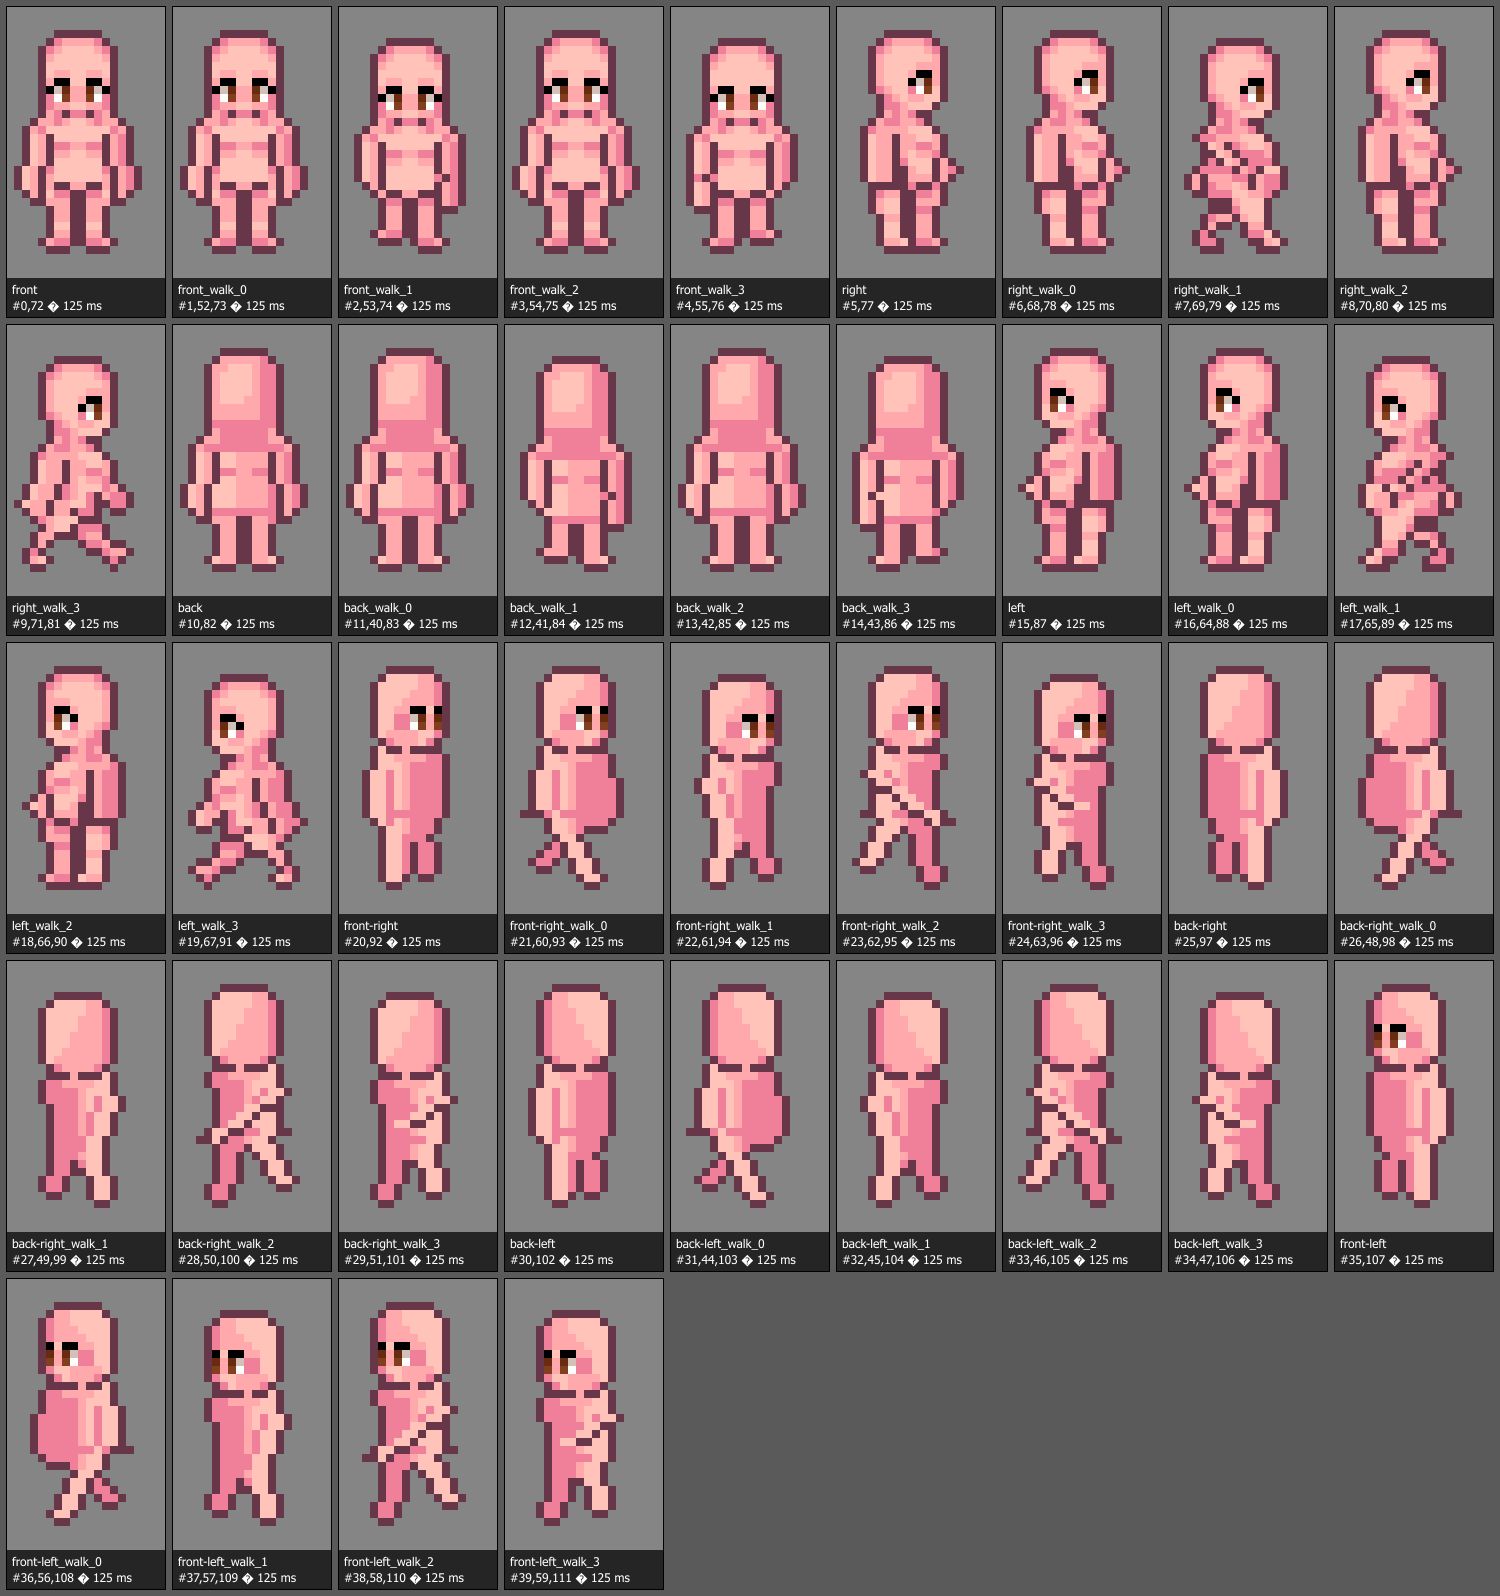
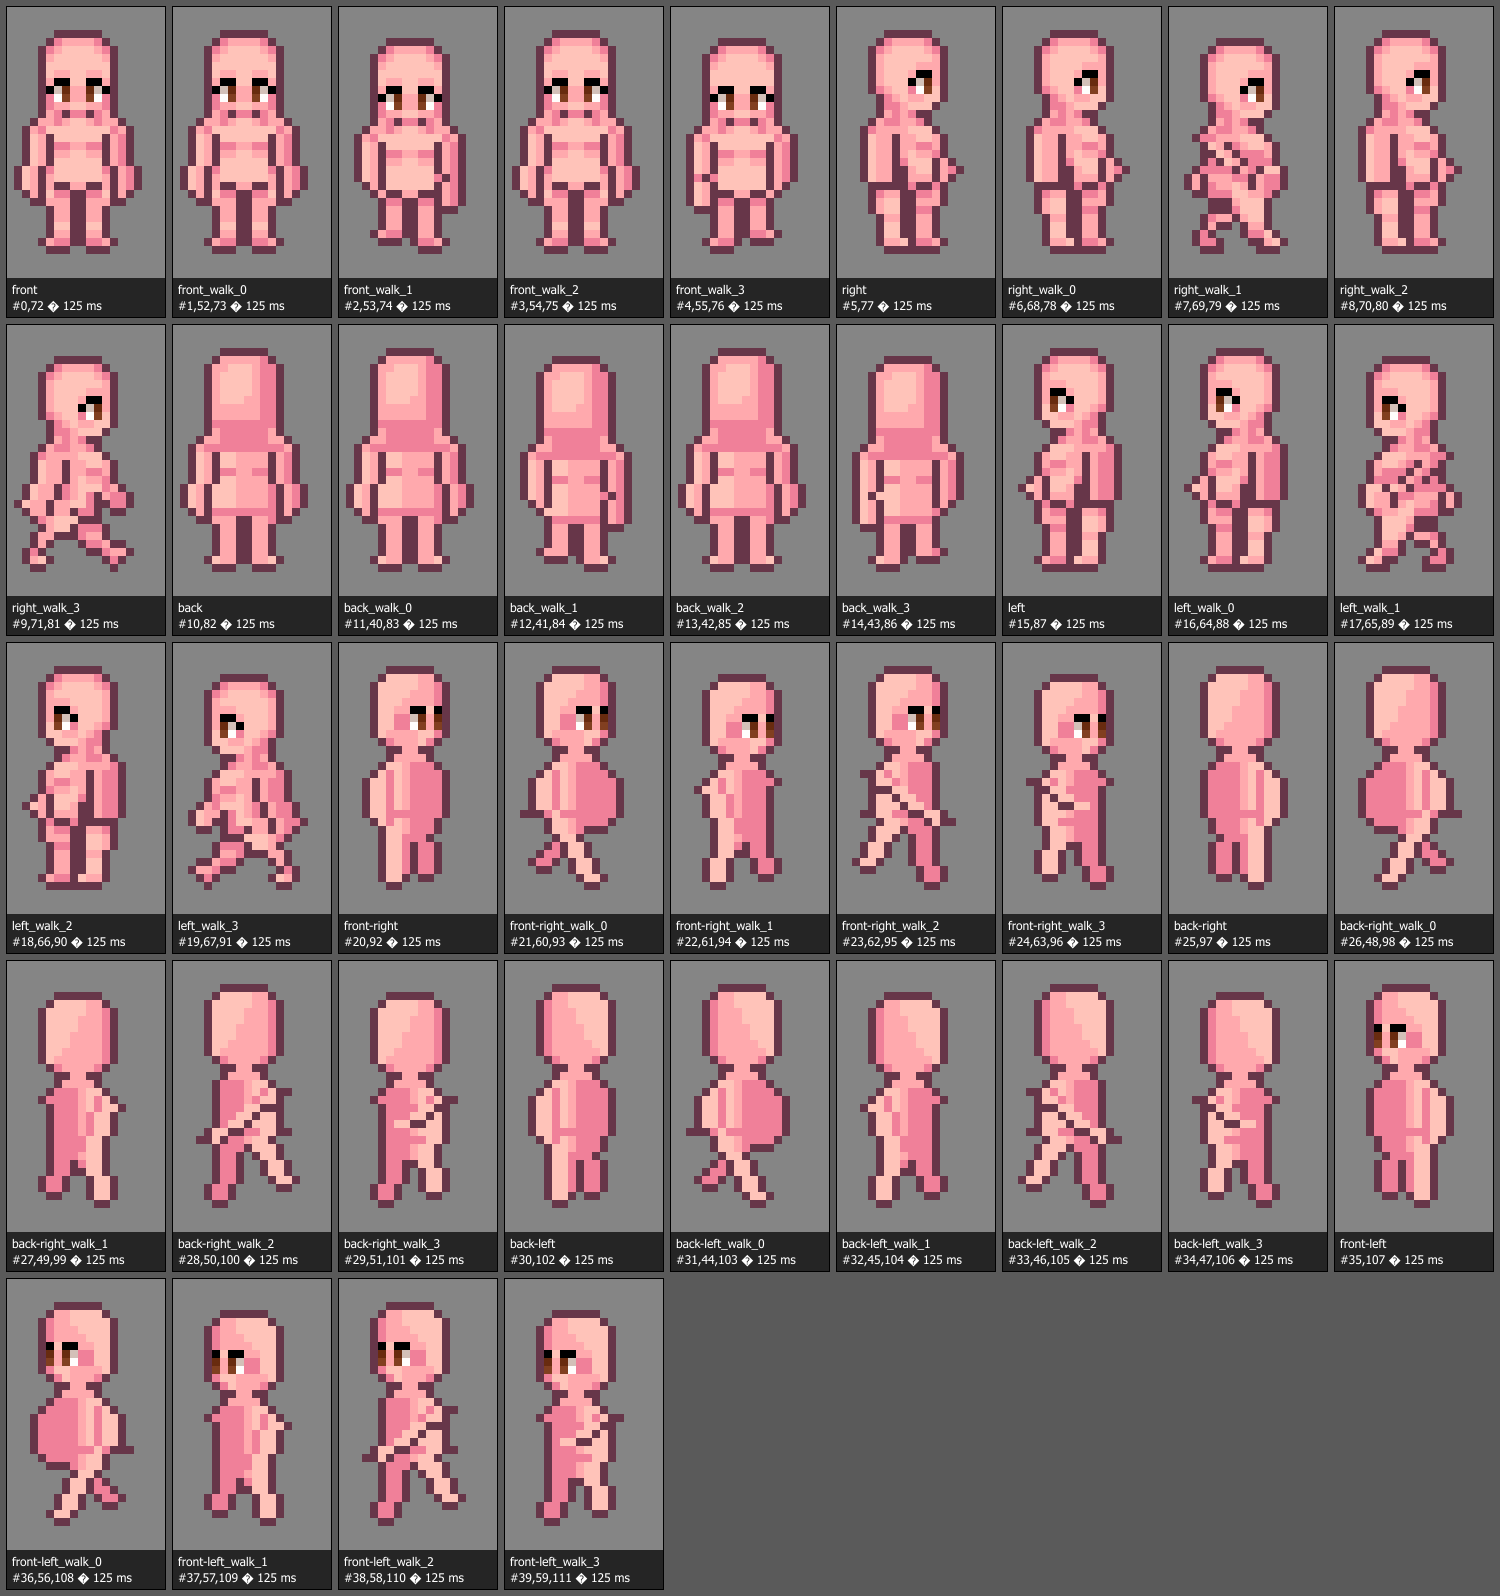
Slope mannequin shoulders from a two-pixel neck opening (#270)

diff --git a/tests/native-diagonal.test.js b/tests/native-diagonal.test.js
@@ -37,7 +37,7 @@ test('published diagonals mirror complete pixel construction and retain outlined
   }
  }
 });
-test('shoulders meet the jaw with a single base-skin neck pixel in each diagonal pose',()=>{
+test('shoulders slope from a two-pixel base-skin opening under the flat chin in each diagonal pose',()=>{
   for(const kind of ['adult','child','large']){
     const ops=nativeMannequin(kind);
     const base=SKIN_TONES.find(t=>t.id==='peach').colors.base;
@@ -47,9 +47,11 @@ test('shoulders meet the jaw with a single base-skin neck pixel in each diagonal
       const jaw=(kind==='child'?18:12)+((phase??0)%2);
       const pixels=ops.filter(o=>o.command==='draw'&&o.cell===cell);
       const chin=pixels.filter(p=>p.y===jaw&&p.name.startsWith('head_'));
-      expect(chin.filter(p=>p.color===base).map(p=>p.x)).toEqual([direction.endsWith('left')?8:7]);
-      expect(pixels.some(p=>p.y===jaw&&p.name.startsWith('body_'))).toBe(true);
-      expect(pixels.filter(p=>p.y===jaw+1).length).toBeGreaterThanOrEqual(kind==='large'?10:8);
+      expect(chin.filter(p=>p.color===base).map(p=>p.x).sort((a,b)=>a-b)).toEqual([7,8]);
+      for(const [depth,left,right] of [[0,5,10],[1,5,10],[2,4,11]]){
+        const xs=pixels.filter(p=>p.y===jaw+depth).map(p=>p.x);
+        expect([Math.min(...xs),Math.max(...xs),xs.length]).toEqual([left,right,right-left+1]);
+      }
     }
   }
 });

diff --git a/examples/native-character/FACE-CONSTRUCTION.md b/examples/native-character/FACE-CONSTRUCTION.md
@@ -6,7 +6,7 @@ Use the cardinal faces as the style reference before drawing a diagonal. These g
 
 The bare skull stays ten pixels wide, x=3..12, inside a 16×32 body cell. The adult and large crown is y=2; the child crown is y=8. Diagonal skulls occupy eleven rows. Walking lowers the complete head by one pixel on stride frames and returns it on passing frames. Move the skull, eyes and shading together; do not enlarge the cheek, flatten the crown, or change head depth to make room for facial details. Large bodies retain the adult eye scale.
 
-On the walking mannequin, bring the near shoulder up to the jaw and use one plain base-skin pixel in the chin outline for the neck. Mirror that pixel with the head and carry both shoulders with the head bob. A standalone head keeps its closed outline.
+On the walking mannequin, start the shoulders under the flat chin before its corners turn upward. Leave two adjacent base-skin pixels in the chin outline for the neck, then step the shoulders down and outward. Mirror the join with the head and carry both shoulders with the head bob. A standalone head keeps its closed outline.
 
 The diagonal silhouette has a closed, fully opaque interior. Model the turn with the far eye's narrower width and shifted light/shadow clusters. Mirror the entire right-facing construction for the corresponding left facing. Rear diagonals show the back of the skull without brows, eyes or a frontal mouth.
 

diff --git a/skills/sprite-character/references/directional-consistency.md b/skills/sprite-character/references/directional-consistency.md
@@ -28,8 +28,9 @@ block or lose the back of the skull. Widths and opaque pixel counts may change w
 projection and occlusion; exact equality is not a volume test. Record measurements
 as evidence, then inspect whether the turn preserves the reference's form.
 
-For the bare native mannequin, bring the shoulders into the jaw and leave a single
-base-skin pixel in the chin outline for the neck. Compare the joined silhouette
+For the bare native mannequin, leave two adjacent base-skin pixels in the flat chin
+outline for the neck. Start the shoulders inside the corners of the jaw and
+step them outward one pixel as they descend. Compare the joined silhouette
 with the front, back and profile at the same phase.
 
 Check idle and every walk phase after accounting for authored bob. Facial clusters
